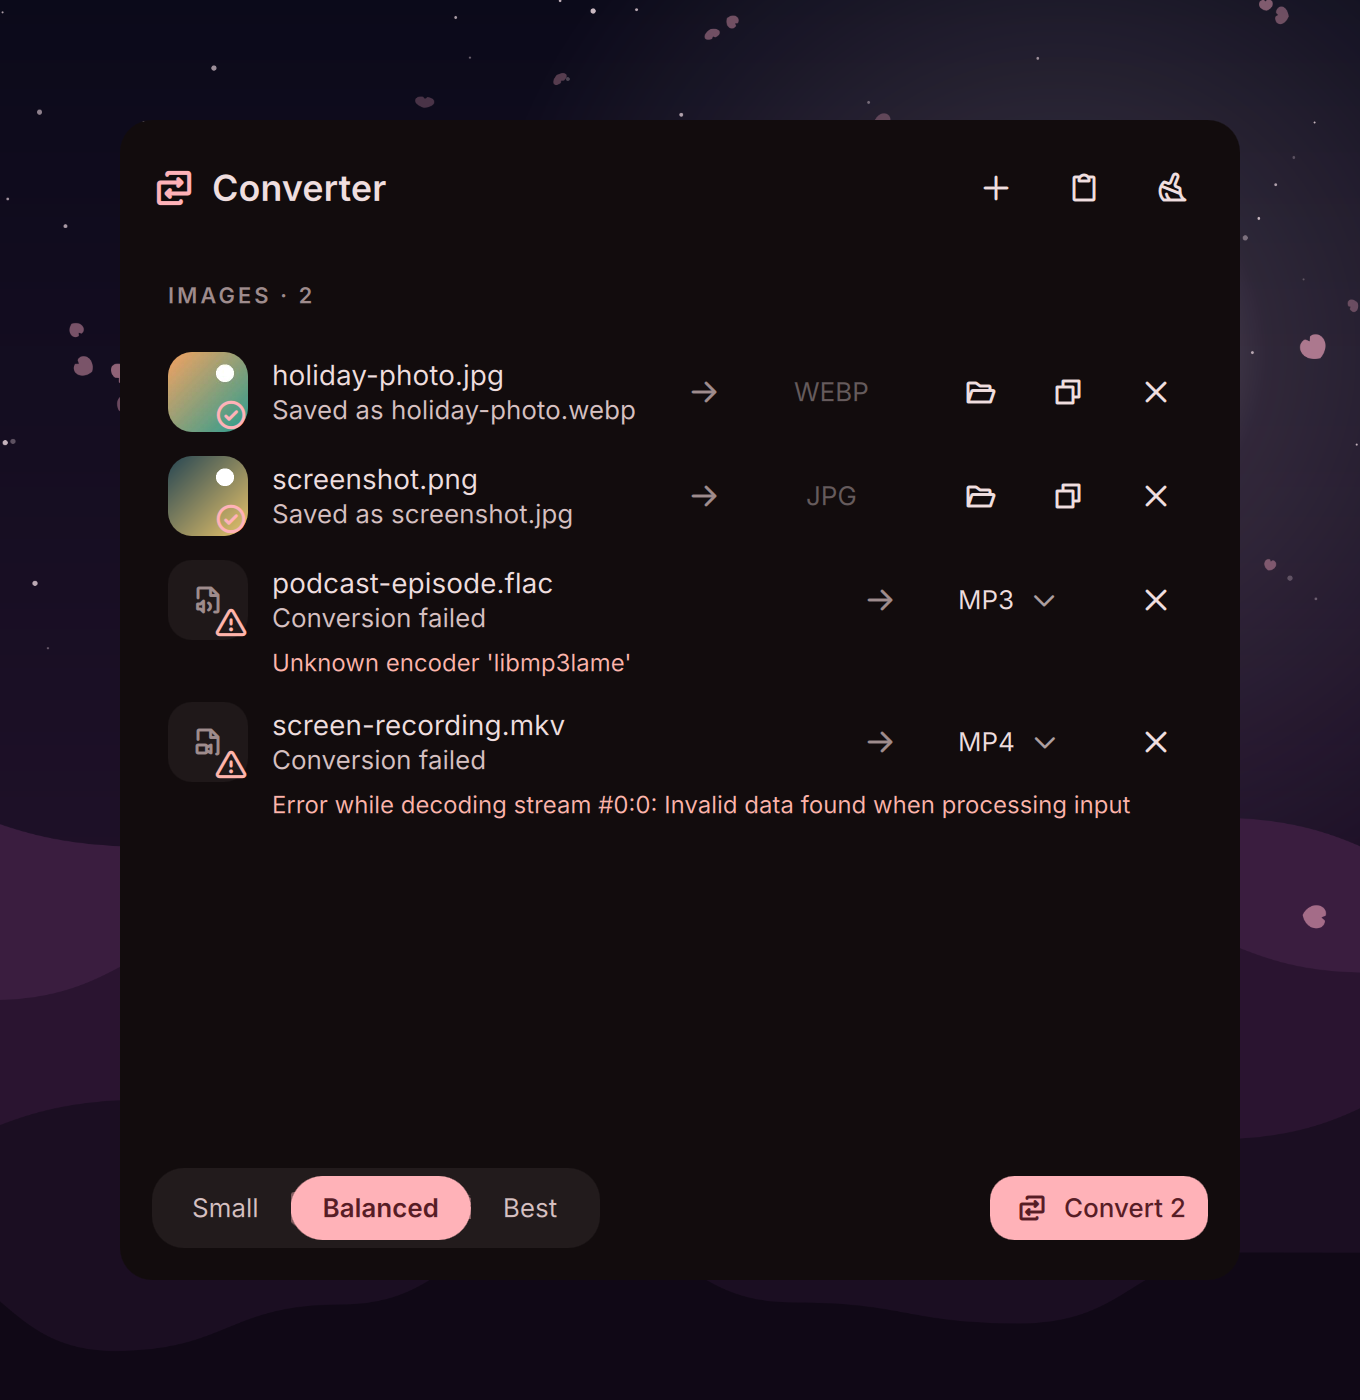
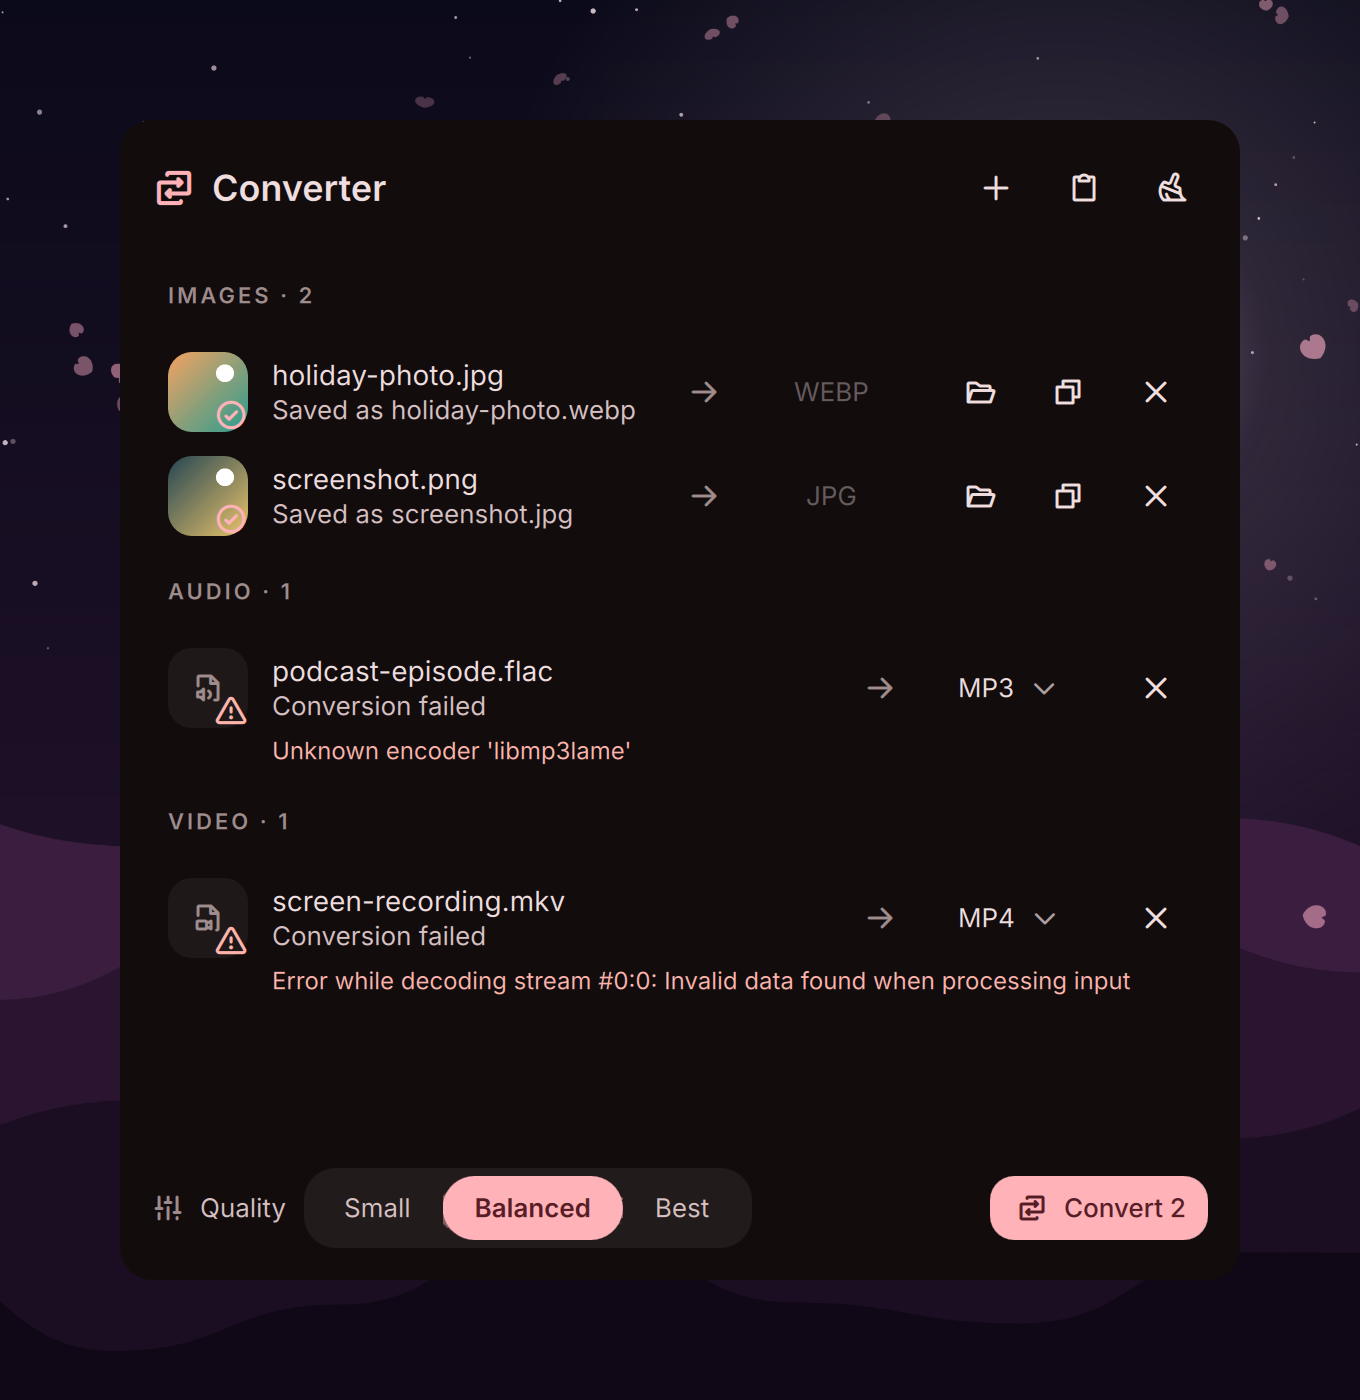
fix(converter): a header per kind, a real drop target, a labelled quality
Every kind gets its header, so the image header no longer reads as the
title of the whole list; "All to" only shows over two or more files of a
kind that can still change. The empty window is one drop target with a
rounded quiet outline that turns accent with "Release to add" while
files hover, one short line and Ctrl+V as key hints. The quality control
has an icon and a label and shows only for lossy targets; the picker card
uses the window surface (no clipped corners). Renders now show the
proposed targets untouched, the drag state, and the fixture's needs text
comes from the new default logic.

diff --git a/modules/converter/DropZone.qml b/modules/converter/DropZone.qml
@@ -3,28 +3,39 @@ import qs.modules.theme
 import qs.modules.services
 import qs.modules.components.kit
 
-// The empty converter: one large inset zone with an icon and one line
-// (drop, paste or click). A click opens the file chooser (clicked()); the
-// accent wash while files are dragged over the window is `dragging`.
+// The empty converter: the window's hero, one inset drop target with a
+// quiet outline that turns accent with "Release to add" while files are
+// dragged over the window (`dragging`). One short line, then the other
+// ways in: click to choose (clicked()) or Ctrl+V.
 Item {
     id: root
 
     property bool dragging: false
     property string message: ""
+    readonly property real radius: Look.radius("box", height)
 
     signal clicked
 
     Well {
+        objectName: "dropWell"
         anchors.fill: parent
-        radius: Look.radius("group", height)
+        radius: root.radius
+        border.width: root.dragging ? Space.stroke : Space.hairline
+        border.color: root.dragging ? Type.accent : (mouse.containsMouse ? Type.muted : Type.track)
+
+        Behavior on border.color {
+            ColorAnimation {
+                duration: Motion.micro.duration
+            }
+        }
     }
 
     Mark {
         objectName: "dropWash"
         anchors.fill: parent
-        radius: Look.radius("group", height)
+        radius: root.radius
         color: Type.accent
-        opacity: root.dragging ? 0.14 : (mouse.containsMouse ? 0.05 : 0)
+        opacity: root.dragging ? 0.12 : (mouse.containsMouse ? 0.04 : 0)
 
         Behavior on opacity {
             NumberAnimation {
@@ -35,8 +46,7 @@ Item {
 
     Column {
         anchors.centerIn: parent
-        width: parent.width - Space.xl * 2
-        spacing: Space.m
+        spacing: Space.l
 
         Icon {
             anchors.horizontalCenter: parent.horizontalCenter
@@ -47,15 +57,52 @@ Item {
 
         KitText {
             objectName: "dropText"
-            width: parent.width
+            anchors.horizontalCenter: parent.horizontalCenter
             horizontalAlignment: Text.AlignHCenter
-            wrapMode: Text.WordWrap
-            role: "body"
+            role: "title"
+            color: root.dragging ? Type.accent : Type.text
             text: root.dragging ? I18n.t("converter.drop_release") : I18n.t("converter.drop_hint")
         }
 
+        // click to choose · paste [Ctrl] [V]
+        Row {
+            anchors.horizontalCenter: parent.horizontalCenter
+            visible: !root.dragging
+            spacing: Space.s
+
+            KitText {
+                anchors.verticalCenter: parent.verticalCenter
+                role: "secondary"
+                text: I18n.t("converter.drop_click")
+            }
+
+            KitText {
+                anchors.verticalCenter: parent.verticalCenter
+                role: "secondary"
+                color: Type.muted
+                text: "·"
+            }
+
+            KitText {
+                anchors.verticalCenter: parent.verticalCenter
+                role: "secondary"
+                text: I18n.t("converter.drop_paste")
+            }
+
+            KeyHint {
+                anchors.verticalCenter: parent.verticalCenter
+                text: "Ctrl"
+            }
+
+            KeyHint {
+                anchors.verticalCenter: parent.verticalCenter
+                text: "V"
+            }
+        }
+
         KitText {
-            width: parent.width
+            anchors.horizontalCenter: parent.horizontalCenter
+            width: Math.min(implicitWidth, root.width - Space.xxl * 2)
             visible: root.message !== ""
             horizontalAlignment: Text.AlignHCenter
             wrapMode: Text.WordWrap

diff --git a/modules/converter/ConverterModel.js b/modules/converter/ConverterModel.js
@@ -92,8 +92,9 @@ function setKindTarget(rows, kind, id) {
     });
 }
 
-// Kinds with two or more rows: [{kind, count, target}] where target is the
-// shared target ("" when the rows differ). Order: KINDS.
+// Every kind with rows: [{kind, count, target}] where target is the shared
+// target ("" when the rows differ). Order: KINDS. The list shows a header
+// per kind; its "all to" control only where count > 1.
 function kindGroups(rows) {
     var by = {};
     (rows || []).forEach(function (r) {
@@ -110,15 +111,15 @@ function kindGroups(rows) {
     });
     var out = [];
     KINDS.forEach(function (k) {
-        if (by[k.id] && by[k.id].count > 1)
+        if (by[k.id])
             out.push(by[k.id]);
     });
     return out;
 }
 
 // The list's keys: rows grouped by kind (KINDS order, unknown files last),
-// a "h:<kind>" header before a kind with two or more rows, "r:<path>" per
-// row. Keys only change when files come or go, so rows keep their items.
+// a "h:<kind>" header before each kind, "r:<path>" per row. Keys only
+// change when files come or go, so rows keep their items.
 function entryKeys(rows) {
     var groups = {};
     kindGroups(rows).forEach(function (g) {

diff --git a/modules/converter/KindHeader.qml b/modules/converter/KindHeader.qml
@@ -4,8 +4,9 @@ import qs.modules.services
 import qs.modules.components.kit
 import "ConverterModel.js" as Model
 
-// Over two or more files of one kind: "Images · 3" and a chip that sets
-// the target of all of them at once (their shared target, or "Mixed").
+// The header of one kind's rows: "Images · 3" and, over two or more files
+// that can still change, a chip that sets the target of all of them at
+// once (their shared target, or "All to...").
 Item {
     id: root
 
@@ -31,7 +32,7 @@ Item {
     Chip {
         id: chip
         objectName: "kindChip"
-        visible: root.editable
+        visible: root.editable && root.group !== null && root.group.count > 1
         anchors.right: parent.right
         anchors.rightMargin: Look.rowInset + Space.controlS + Space.s
         anchors.verticalCenter: parent.verticalCenter

diff --git a/modules/converter/ConverterView.qml b/modules/converter/ConverterView.qml
@@ -180,7 +180,22 @@ FocusScope {
             RowLayout {
                 Layout.fillWidth: true
                 visible: !conv.empty
-                spacing: Space.m
+                spacing: Space.s
+
+                // quality of lossy targets (jpg, webp, mp3, video...) only
+                Icon {
+                    visible: conv.showQuality
+                    icon: Icons.faders
+                    role: "secondary"
+                    tone: "muted"
+                }
+
+                KitText {
+                    visible: conv.showQuality
+                    role: "secondary"
+                    color: Type.secondary
+                    text: I18n.t("converter.quality")
+                }
 
                 Segmented {
                     id: quality

diff --git a/modules/converter/FormatPicker.qml b/modules/converter/FormatPicker.qml
@@ -70,6 +70,7 @@ FocusScope {
         anchors.centerIn: parent
         width: Math.min(parent.width - Space.xl * 2, Space.controlXL * 4)
         floating: false
+        variant: "bg"
         padding: Math.max(Look.surfacePadding, Space.l)
 
         Column {

diff --git a/tools/render/converter_render.py b/tools/render/converter_render.py
@@ -5,9 +5,10 @@ Xvfb, never the desktop) over the wallpaper.
     tools/render/converter_render.py [--out DIR] [--mode dark|light] [--scale N]
                                      [--wallpaper FILE] [LANGUAGE ...]
 
-States: `empty` (the drop zone), `files` (mixed kinds: two images under a
-kind header, audio, video, a document, markup whose targets need pandoc,
-data), `picker` (the target picker of a photo), `converting` (progress),
+States: `empty` (the drop zone), `drag` (files dragged over it), `files`
+(the proposed targets of mixed kinds under a header per kind: two images,
+audio, video, a document, markup that needs pandoc, data), `picker` (the
+target picker of a photo; webp is chosen after it), `converting` (progress),
 `done` (results with show / copy) and `error` (a failed conversion and its
 short message). Writes <out>/converter-<state>-<language>[-light].png, every
 visual language by default (tests/lib/languages.py). The backend is the
@@ -127,15 +128,19 @@ Window {{
     win.requestActivate()
     QTest.qWait(300)
     snap("empty")
+    zone = h.find(win, "dropZone")
+    zone.setProperty("dragging", True)  # files dragged over the window
+    snap("drag")
+    zone.setProperty("dragging", False)
 
+    # the proposed targets, untouched
     ev("converter.add(%s)" % json.dumps([str(files / f) for f in FILES]))
     QTest.qWait(200)
-    ev("converter.setTarget(%s, 'webp')" % json.dumps(str(files / "holiday-photo.jpg")))
     snap("files")
 
     ev("pickRow(%s, null)" % json.dumps(str(files / "holiday-photo.jpg")))
     snap("picker")
-    ev("picker.close()")
+    ev("picker.chosen('webp'); picker.shown = false")
 
     for name in ("meeting-notes.md", "quarterly-report.docx", "settings.json"):
         ev("converter.remove(%s)" % json.dumps(str(files / name)))

diff --git a/docs/ai-guide.md b/docs/ai-guide.md
@@ -478,7 +478,7 @@ MCP equivalent is `config_set {"key": ..., "value": ...}`.
 77. **Third-party app is not themed** (kitty, Ghostty, foot, Alacritty, Discord/Vesktop): the daemon `apphooks` service wires them to the generated theme files, idempotently and never into files the user manages elsewhere (Nix store, unparsable): IPC `apphooks.status | ensure {ids} | apply {id} | revert {id}`; states connected / disconnected / absent / managed / error. A fresh install connects the enabled apps automatically; an upgraded install starts with apps whose config exists switched off (`backend/pkg/migrate/apphooks.go`, Settings offers Connect), and a kitty.conf with its own theme (`kitty +kitten themes`) is only connected on Connect. Qt is not a hook: `QT_QPA_PLATFORMTHEME` goes into the generated compositor config (`[env]`, `backend/pkg/svc/compositor/qtenv.go`). Firefox, Spicetify and Telegram hooks are not implemented yet (deferred; the catalog has no `post` for them). Add an app in `backend/pkg/apphooks/` (one file, register in `apphooks.go`) and a generator under `modules/theme/` if it needs a file; `modules/services/AppHooksService.qml` is the shell side. `backend/pkg/envclean` deduplicates `XDG_DATA_DIRS`, `PATH` ... at startup and for every child the daemon starts (a compositor config that prepends on each reload otherwise grows them without bound).
 78. **The shell crashed or froze**: the daemon restarts Quickshell itself (1 s, 2 s, 4 s ... up to 16 s; more than 5 exits in 60 s is a crash loop: it stops restarting, notifies with `notify-send` / `hyprctl notify` and exits non-zero, releasing its instance lock; the next shell keybind or `yozakura reload` starts a fresh daemon with a fresh guard). When the compositor itself is gone (logout: its Wayland socket vanished or refuses connections) the daemon does not restart the shell but exits cleanly, so the next login starts a fresh one. A frozen GUI thread is caught by the heartbeat watchdog (`system.heartbeat` from `BackendService.qml` every 3 s; 15 s of silence SIGKILLs the shell's process group, then the restart above). The heartbeat is an async IPC method and ordered calls run on a per-connection worker, so a slow `compositor.dispatch` on the same socket never delays it. `yozakura run|toggle|lock` start a dead daemon and retry (bounded, never a second instance; never outside a Wayland session: without `WAYLAND_DISPLAY` they, the bare `yozakura` and `reload` refuse, since such a daemon would hold the next login's instance lock) and print a note when the command was only queued (no shell received it yet); `lock` instead waits for a shell to pick it up (starting a daemon that gave up again) and exits 1 if none did, so `before_sleep_cmd` never suspends unlocked; Super+T execs `general.terminal` directly, and `yozakura run terminal` opens it without the shell. Recover by hand with `yozakura reload` (Super+Alt+B, works without a live daemon). Code: `backend/pkg/daemon/qsguard.go` (thresholds), `qssupervise.go`, `backend/cmd/yozakura/uicall.go`, `backend/pkg/svc/compositor/terminalbind.go`.
 79. **Settings / the setup wizard cost memory while unused**: `yozakura config set performance.separateWindows true` runs them as their own Quickshell processes (started by the daemon on open, `windows.status` shows them; they give all their memory back on close, each open takes a few seconds longer). Everything opens them as before; staged changes still preview on the desktop (daemon `preview` relay). Design, page notes and limits: `modules/settings/AGENTS.md` (SEPARATE PROCESS); a new session-wide service checks `ProcessRole.primary` (`modules/services/AGENTS.md`). Code: `backend/pkg/svc/windows`, `backend/pkg/svc/preview`, `settings-window.qml`, `onboarding-window.qml`, `modules/globals/ProcessRole.qml`, `modules/services/SeparateWindows.qml` + `PreviewSink.qml`.
-80. **Convert a file (jpg to png, flac to mp3, docx to pdf, json to yaml ...)**: the converter window (tools menu, Super+Alt+C, `yozakura run converter`) takes files by drag and drop, Ctrl+V or a file chooser and proposes a target per file (click the chip for any other; a header chip changes every file of one kind). From a terminal: `yozakura convert photo.jpg` (proposed target), `yozakura convert *.flac --to mp3 --out ~/Music --quality best`, `yozakura convert formats song.flac` (targets, `*` proposed, `-` needs a tool). Results go next to the source (or `system.converter.outputDir`) and never replace a file: a taken name gets " (1)". Engines are found at runtime: ffmpeg (audio, video, gif), ImageMagick (images, also `convert`), rsvg-convert (svg), LibreOffice (office documents, pdf), pandoc (markup, ebooks), poppler (pdf to png/txt); data formats and common images (png, jpg, gif, bmp, tiff, webp) are converted in Go with no tool. A target whose tool is missing stays listed and says what to install. Keys: `system.converter.outputDir`, `system.converter.quality` (`small`/`balanced`/`best` for lossy targets), `system.converter.openFolder`. To add a format or a conversion: one entry in `backend/pkg/convert/formats.go` and a route in `routes.go` (`families`, `defaults`, `popular`), then the argv in `plan.go`; `routes_test.go` checks every source has a default among its targets.
+80. **Convert a file (jpg to png, flac to mp3, docx to pdf, json to yaml ...)**: the converter window (tools menu, Super+Alt+C, `yozakura run converter`) takes files by drag and drop, Ctrl+V or a file chooser and proposes a target per file (click the chip for any other; a header chip changes every file of one kind). From a terminal: `yozakura convert photo.jpg` (proposed target), `yozakura convert *.flac --to mp3 --out ~/Music --quality best`, `yozakura convert formats song.flac` (targets, `*` proposed, `-` needs a tool). Results go next to the source (or `system.converter.outputDir`) and never replace a file: a taken name gets " (1)". Engines are found at runtime: ffmpeg (audio, video, gif), ImageMagick (images, also `convert`), rsvg-convert (svg), LibreOffice (office documents, pdf), pandoc (markup, ebooks), poppler (pdf to png/txt); data formats and common images (png, jpg, gif, bmp, tiff, webp) are converted in Go with no tool. A target whose tool is missing stays listed and says what to install; when the preferred target needs a missing tool a working one is proposed instead (a file nothing can convert says which tool to install). Keys: `system.converter.outputDir`, `system.converter.quality` (`small`/`balanced`/`best` for lossy targets), `system.converter.openFolder`. To add a format or a conversion: one entry in `backend/pkg/convert/formats.go` and a route in `routes.go` (`families`, `defaults`, `popular`), then the argv in `plan.go`; `routes_test.go` checks every source has a default among its targets.
 
 ### Keybinds
 Keybinds live in `~/.config/yozakura/binds.json` (hot-reloaded), edited in
